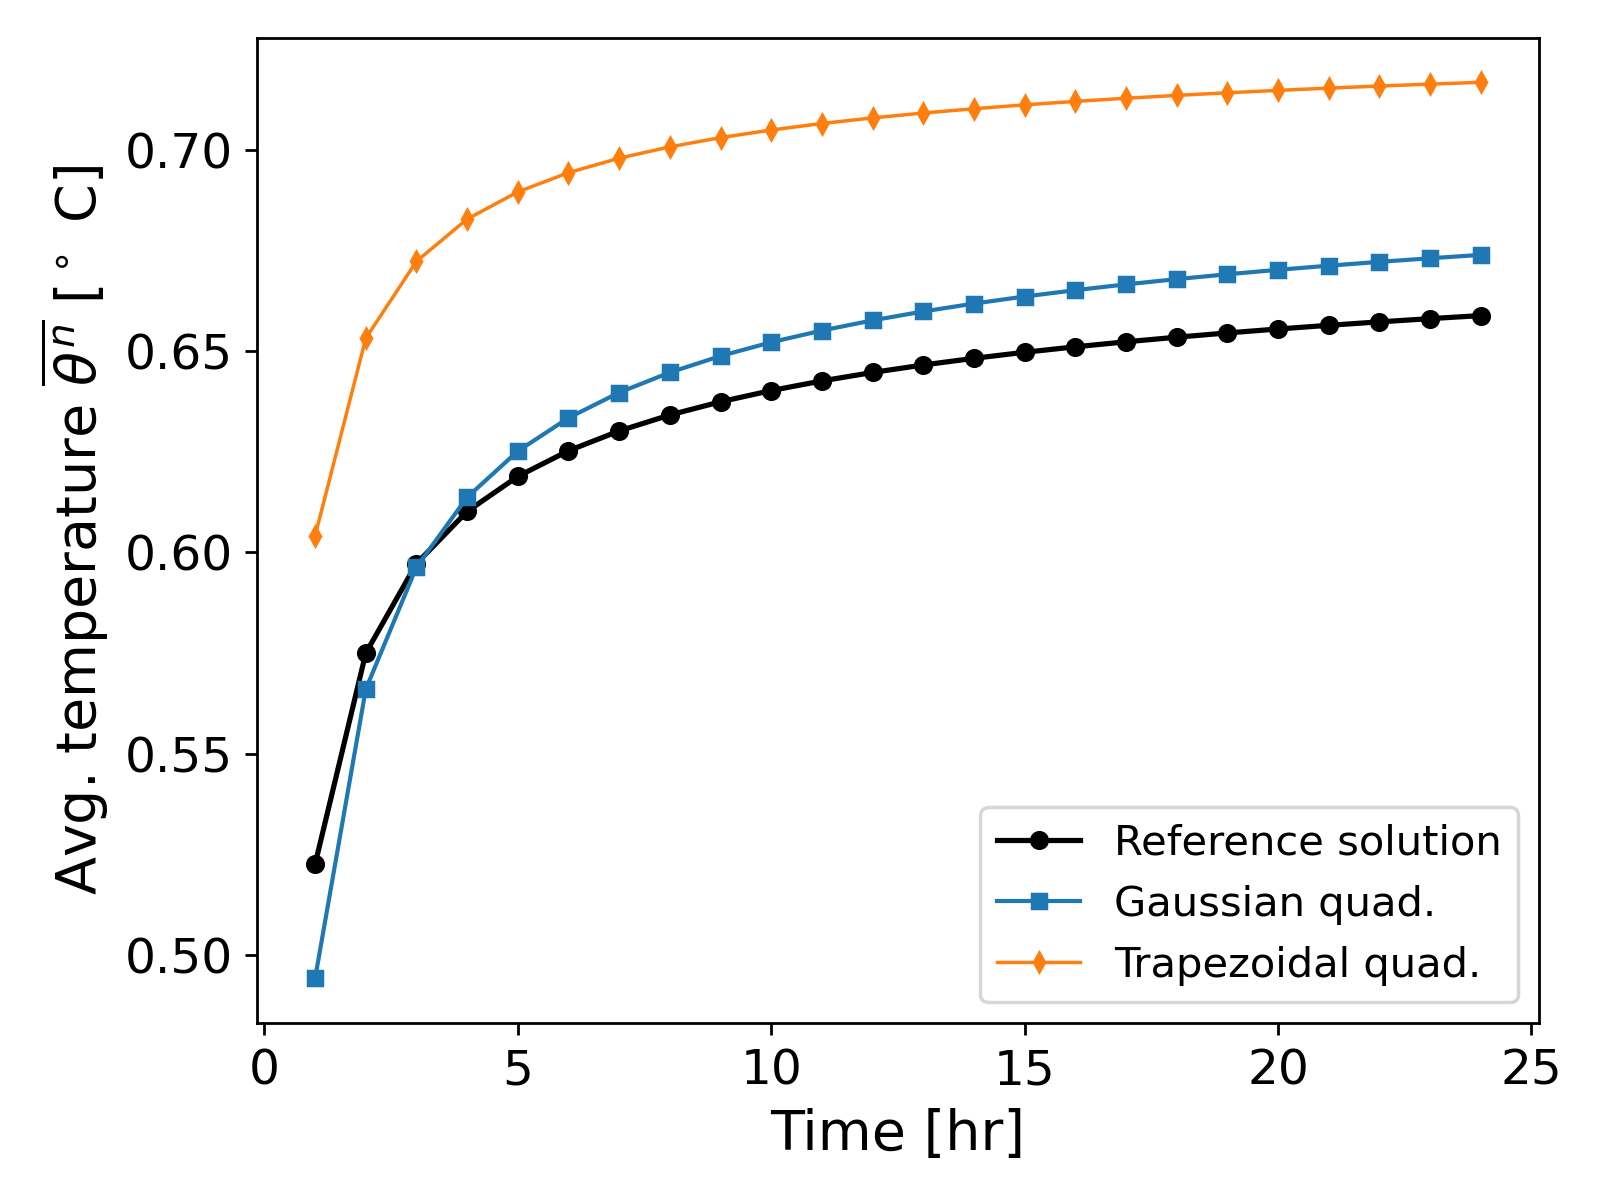
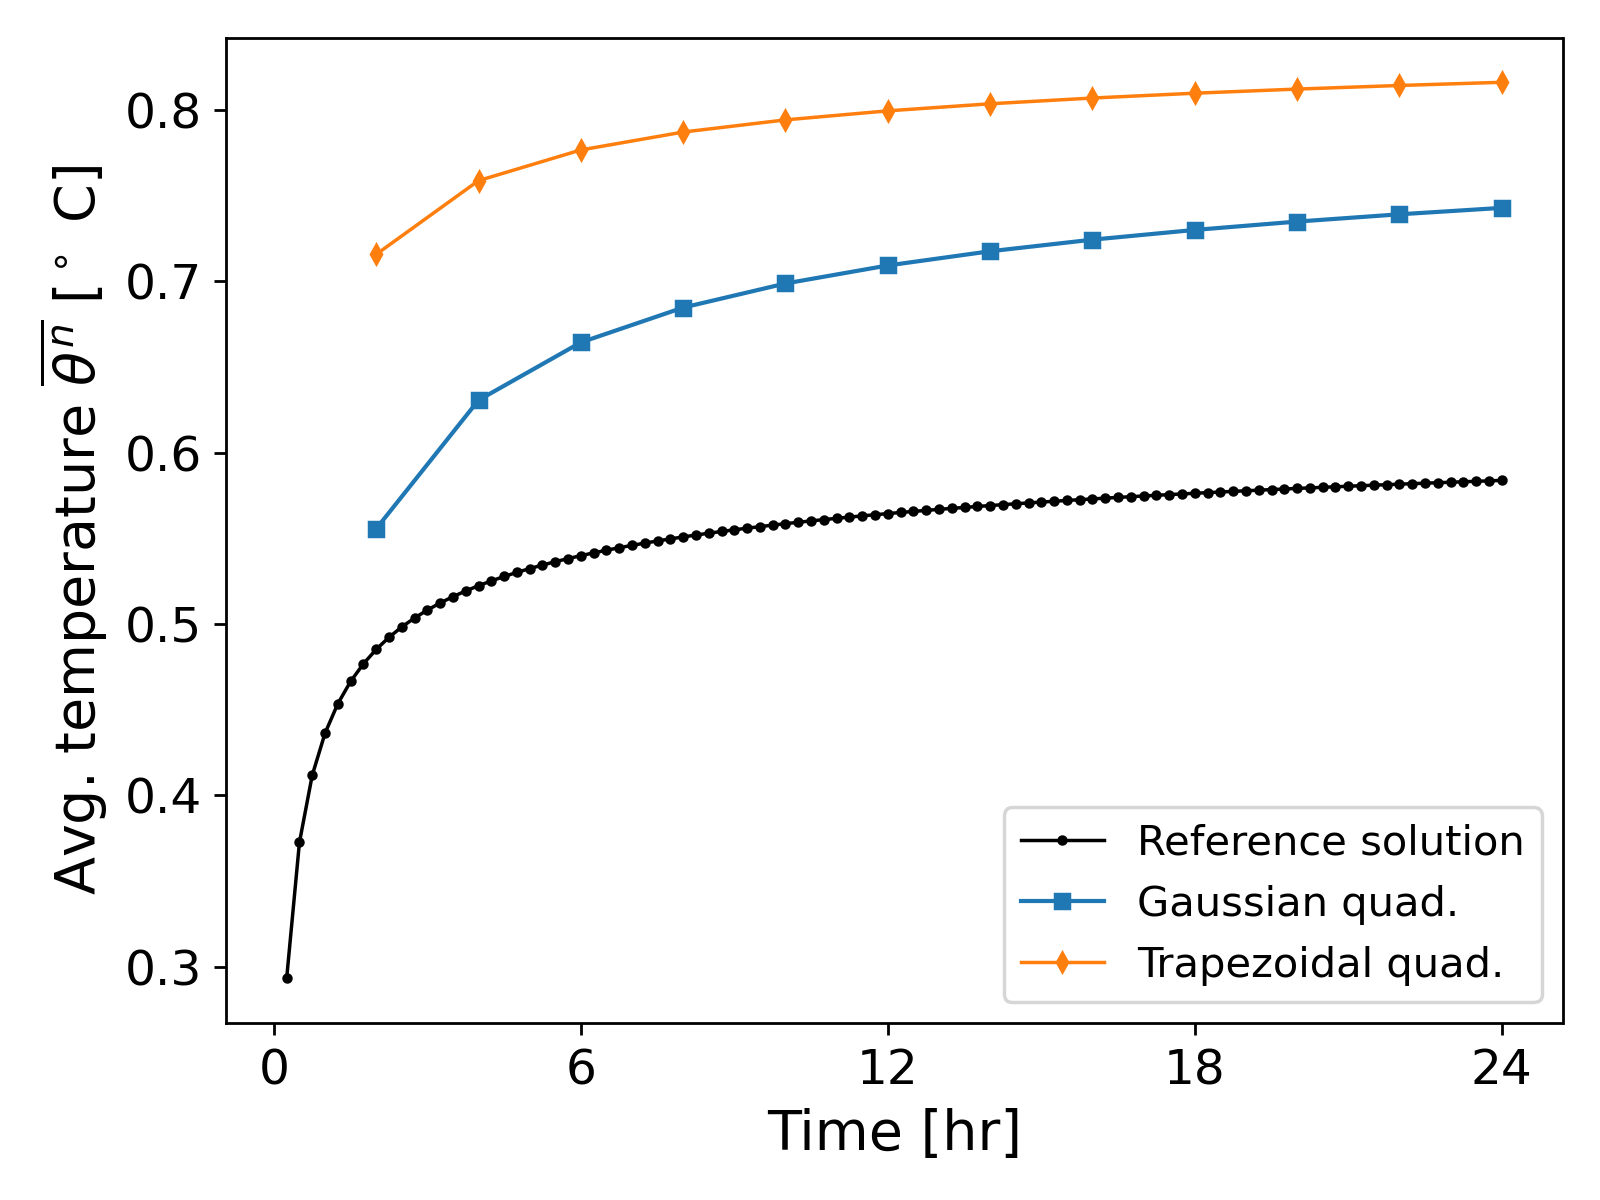
WIP: updated average temperature blog

diff --git a/_talks/monotone_average_temperature.md b/_talks/monotone_average_temperature.md
@@ -1,5 +1,5 @@
 ---
-title: "Investigation into the Effect of Monotonicity of Numerical Methods for the Heat Equation on Average Measured Temperature"
+title: "Effect of Monotonicity of Numerical Schemes for the Heat Equation on Average Measured Temperature"
 collection: talks
 excerpt: "We consider a 3 dimensional physical scenario to simulate a heating object and compute the average temperature over its boundary for a monotone and non-monotone scheme."
 date: 2026-2-21
@@ -11,19 +11,24 @@ date: 2026-2-21
 
 # 1. Introduction
 
-In this post, we investigate the physical impact of oscillations arising due to non-monotone schemes for the heat equation; see our discussion in [On the Cause of Spurious Oscillations in Stable Numerical Methods](https://nvohra0016.github.io/talks/oscillations_m_matrix/) for an in-depth analysis of the cause of oscillations. We return to the heat equation
+In this post, we investigate two approaches to solving the heat equation 
 
 $$
     \partial_t \left( c \theta \right) - \nabla \cdot \left(k \nabla \theta \right) = 0, \; \text{ in } \Omega,
 $$
 
-where $\Omega \subset \mathbb{R}^3$, and are interested in quantifying the discrepancies in measurable quantities, such as the average temperature over a subset of the boundary face.
 
-We have already demonstrated in our previous post how implicit Euler Galerkin schemes using $P_1/Q_1$ elements violate the *monotonicity* condition of the solution, i.e., they do not preserve the positivity of the solution (and the initial bounds). Physically, we observe negative temperature values in the absence of any sink terms or negative Dirichlet boundary conditions. An in-depth analysis shows how the scheme becomes non-monotone, i.e., it does not preserve the positivity of the solution when the thermal conductivity or time step becomes too small. We also developed a scheme using appropriate quadrature that solves this issue and produces a monotone scheme, thereby eliminating the spurious oscillation causing negative temperature values. 
+where $\Omega \subset \mathbb{R}^3$. We are interested in quantifying the discrepancies in measurable quantities, such as the average temperature over a subset of the boundary face.
 
+We consider (a) non-monotone implicit and (b) monotone implicit scheme. We wish to quantify the differences in these two approaches when simulating a physical scenario of an object heating. In our previous post, we investigated the cause of spurious numerical oscillations arising due to a non-monotone scheme (in cases of low time step size and low thermal conductivity); see our discussion in [On the Cause of Spurious Oscillations in Stable Numerical Methods](https://nvohra0016.github.io/talks/oscillations_m_matrix/) for an in-depth analysis of the cause of oscillations. We return to the heat equation
 
-## 1.1. Example setup
+We have already demonstrated in our previous post how implicit Euler Galerkin schemes using $P_1/Q_1$ elements violate the *monotonicity* condition of the solution, i.e., they do not preserve the positivity of the solution (and the initial bounds). Physically, we observe negative temperature values in the absence of any sink terms or negative Dirichlet boundary conditions. An in-depth analysis shows how the scheme becomes non-monotone, i.e., it does not preserve the positivity of the solution when the thermal conductivity or time step becomes too small. We also developed a scheme using appropriate quadrature that solves this issue and produces a monotone scheme, thereby eliminating the spurious oscillation causing negative temperature values. However, the monotone scheme introduces quadrature error since we use the trapezoidal rule, as opposed to the Gaussian quadrature which is exact for polynomials. Hence, we expect some inaccuracy to arise because of this approach as well.
 
+Thus the question we seek to answer is this: *is the quadrature error worth helping us remove non-physical oscillations insofar as the accuracy of the scheme is concerened?*. Although there are numerous higher accuracy monotone schemes in literature, here we are concerned with the one that we have obtained previously, i.e., a first order implicit time stepping scheme using Q1 elements.
+
+We now explain the heterogeneous physical scenario used in our investigation.
+
+## 1.1. Example Setup
 
 We now simulate a physical scenario to understand the effect of the negative temperature oscillations produced by the Gaussian quadrature compared to the inconsistency introduced by the trapezoidal quadrature. To this end, we consider a three-dimensional heterogeneous material occupying $\Omega = (0,1)^3$ as shown below.
 
@@ -37,17 +42,11 @@ We now simulate a physical scenario to understand the effect of the negative tem
 
 <br>
 
-The thermal conductivity and heat capacity for the two types of materials is $k_{high} = 1000$ [J/m $^\circ$ C s], $c_{high} = 10^6$ [J/m$^3$ s] and $k_{low} = 0.05$ [J/m $^\circ$ C s], $c_{low} = 10^6$ [J/m$^3$ s]. We consider Dirichlet boundary conditions on $\\{ 0 \\} \times (0,1) \times (0,1)$ where we set $\theta = 1$ [$^\circ$ C], and on the other faces we consider the Neumann no-flux boundary condition $\nabla \theta \cdot \nu = 0$. 
+The thermal conductivity and heat capacity for the two types of materials is $k_{high} = 1000$ [J/m $^\circ$ C s], $c_{high} = 10^6$ [J/m$^3$ s] and $k_{low} = 0.20$ [J/m $^\circ$ C s], $c_{low} = 10^6$ [J/m$^3$ s]. We consider Dirichlet boundary conditions on $\\{ 0 \\} \times (0,1) \times (0,1)$ where we set $\theta = 1$ [$^\circ$ C], and on the other faces we consider the Neumann no-flux boundary condition $\nabla \theta \cdot \nu = 0$. 
 
-# 2. Numerical Scheme and Solver
+## 1.2. Measured Quantity: Average Temperature
 
-We consider first order implicit time stepping and spatial discretization using $Q_1$ bilinear elements. We consider two aproaches: (a) using the full quadrature when computing the mass matrix (Gaussian quadrature) and (b) using the trapezoidal rule to compute the mass matrix; see [On the Cause of Spurious Oscillations in Stable Numerical Methods](https://nvohra0016.github.io/talks/oscillations_m_matrix/) for complete details of the two approaches. We now know that approach (a) will lead to negative temperature values and (b) will preserve the positivity and bounds of the solution.
-
-We develop and implement our scheme in deal.II [^1]. To efficiently handle the large scale of the problem, we parallelize our implementation using MPI and PETSc [^2], the interface of which is offered in deal.II itself. As part of the linear solver, we consider the conjugate gradient (CG) method with the algebraic multigrid (AMG) preconditioner.
-
-## 2.1. Measured Quantity
-
-In order to compare the two approaches, we compute the temperature average on a subset of one of the boundaries
+In order to compare the approaches (a) and (b), we compute the temperature average on a subset of one of the boundaries
 
 $$
 \label{eq:measured_value}
@@ -58,34 +57,47 @@ where $\theta^n_h$ is the discretized solution obtained at time step $n$, and $\
 
 For our numerical results, we consider $\Gamma_F = \\{ 1 \\} \times (0.25, 0.75) \times (0.25, 0.75)$. 
 
+
+## 1.3. Reference Solution
+
+Since for the above example we do not have an analytical solution, we compute the reference solution on a fine grid (low spatial grid size and time step) to help us quantify the differences in our approaches when computing the average temperature \ref{eq:measured_value}. In order to do this efficiently, we implement our solver in parallel; see the next section for details.
+
+# 2. Numerical Scheme and Solver
+
+We consider first order implicit time stepping and spatial discretization using $Q_1$ bilinear elements. We consider two aproaches: (a) using the full quadrature when computing the mass matrix (Gaussian quadrature) and (b) using the trapezoidal rule to compute the mass matrix; see [On the Cause of Spurious Oscillations in Stable Numerical Methods](https://nvohra0016.github.io/talks/oscillations_m_matrix/) for complete details of the two approaches. We now know that approach (a) will lead to negative temperature values and (b) will preserve the positivity and bounds of the solution.
+
+We develop and implement our scheme in deal.II [^1]. To efficiently handle the large scale of the problem, we parallelize our implementation using MPI and PETSc [^2], the interface of which is offered in deal.II itself. As part of the linear solver, we consider the conjugate gradient (CG) method with the algebraic multigrid (AMG) preconditioner.
+
+
 # 3. Results
 
-To compare our approaches (a) and (b), we first compute the reference solution using a really fine spatial mesh. We run the simulation over $(0, 24)$ [hr] using a time step of $\tau = 1$ [hr], and a uniform spatial mesh using edge length $0.00625$ [m] (corresponding to roughly 5 million degrees of freedom!). The simulation is launched on 10 processors, and the results at the first and last time steps are shown in Fig. 2.
+To compare our approaches (a) and (b), we first compute the reference solution using a really fine spatial mesh. We run the simulation over $(0, 24)$ [hr] using a time step of $\tau = 0.25$ [hr], and a uniform spatial mesh using edge length $0.00625$ [m] (corresponding to more than 4 million degrees of freedom!). The simulation is launched on 10 processors, and the results at the first and last time steps are shown in Fig. 2. The simulations takes roughly 3.8 hours to finish on my pesonal macbook.
 
 <div align="center">
 <img src='/images/flux_computation/fine_mesh_results.png' width='500' height='500'>
 </div>
 
 <div align = "center">
- Figure 2. Results at $t = 1$ [hr] (left) and $t = 24$ [hr] (right) for the reference solution (fine grid).
+ Figure 2. Results at $t = 1$ [hr] (left) and $t = 24$ [hr] (right) for the reference solution.
 </div>
 
 <br>
 
-We now compute the solution using the Gaussian quadrature and trapezoidal quadrature on a uniform mesh with cell width $h = 0.025$ [m], and compute the average temperature given by \ref{eq:measured_value}. The results are shown in Fig. 3.
+We now compute the solution using the Gaussian quadrature and trapezoidal quadrature on a uniform mesh with cell width $h = 0.05$ [m], and compute the average temperature given by \ref{eq:measured_value}, and we use a time step $\tau = 2.0$ [hr]. The average temperature is shown in Fig. 3.
 
 <div align="center">
 <img src='/images/flux_computation/average_temperature.png' width='420' height='420'>
 </div>
 
 <div align = "center">
- Figure 3. Results showing the average temperature computed using the Gaussian quadrature and trapezoidal quadrature. Also shown are the average temperature values for the reference solution.
+ Figure 3. Results showing the average temperature over time when computed using the Gaussian quadrature (approach (a)) and trapezoidal quadrature (approach (b)). Also shown are the average temperature values for the reference solution.
 </div>
 
 <br>
 
-**Discussion of results** It can be observed from Fig. 3. that the Gaussian quadrature yields values closer to the reference solution than the trapezoidal quadature when using a coarse mesh, even though spurious oscillations (negative temperature values) are present when using the Gaussian quadrature. That is, even though the trapezoidal quadrature leads to positivity preserving scheme, the error introduced by the quadrature itself leads to large differences in the measured average temperature values.
+**Discussion of results** It can be observed from Fig. 3. that the Gaussian quadrature (approach (a)) yields values closer to the reference solution than the trapezoidal quadature (approach (b)) when using a coarse mesh, even though spurious oscillations (negative temperature values) are present when using the Gaussian quadrature. That is, even though the trapezoidal quadrature leads to positivity preserving scheme, the error introduced by the quadrature itself leads to large differences in the measured average temperature values. 
 
+## Further Reading
 
 ## References
 [^1]: Daniel Arndt et al., *The deal.II library, Version 9.7*, Journal of Numerical Mathematics, 2025.
